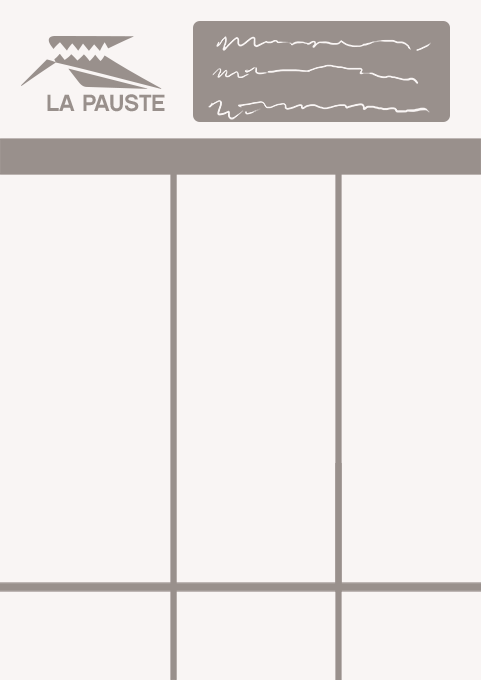
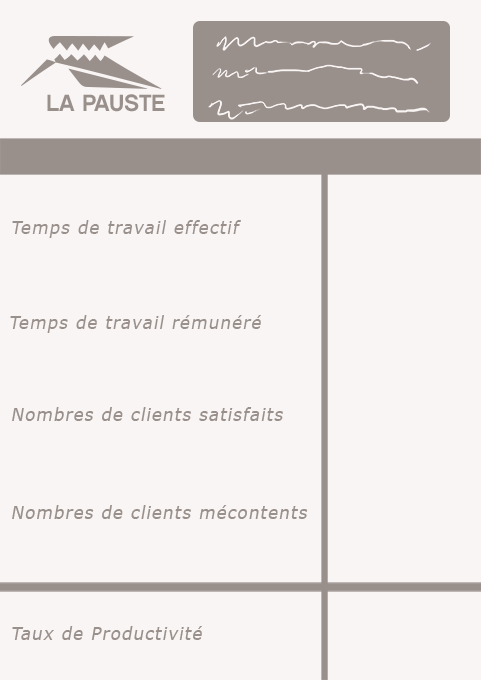
Fiche de paie journée

Changed region(s): [[0.0312, 0.2471, 0.7173, 1.0]]

diff --git a/js/src/entities/Payslip.js b/js/src/entities/Payslip.js
@@ -30,21 +30,21 @@ var Payslip = (function(AssetManager) {
 
     Payslip.prototype.displayInfo = function(info) {
         var ctx = this.context;
-        ctx.font = "28px Courier bold justify";
+        ctx.font = "32px 'Arial' bold";
 
         var gameTimeWorkedForBoss = TimeManager.instance.realTimeToGameTime(info.workedTimeForBoss);
         var gameTimeActuallyWorked = TimeManager.instance.realTimeToGameTime(info.actualWorkedTime);
 
-        ctx.fillText('Temps réellement travaillé : ' + gameTimeActuallyWorked.h + "h" + gameTimeActuallyWorked.m, 50, 50);
-        ctx.fillText('Temps patron : ' + gameTimeWorkedForBoss.h + "h" + gameTimeWorkedForBoss.m, 50, 100);
-        ctx.fillText('Réussi : ' + info.nbSuccess, 50, 150);
-        ctx.fillText('Fail : '+info.nbFailed, 50, 200);
-        ctx.fillText(( (info.productivity * 100) | 0)+"%", 50, 250);
+        ctx.fillText(gameTimeActuallyWorked.h + "h" + gameTimeActuallyWorked.m, 760, 255);
+        ctx.fillText(gameTimeWorkedForBoss.h + "h" + gameTimeWorkedForBoss.m, 760, 350);
+        ctx.fillText(info.nbSuccess, 760, 445);
+        ctx.fillText(info.nbFailed, 760, 540);
+        ctx.fillText( ( (info.productivity * 100) | 0) + "%", 760, 665);
     };
 
     Payslip.prototype.displayInfoWeek = function(info) {
         var ctx = this.context;
-        ctx.font = "28px Courier bold justify";
+        ctx.font = "32px 'Arial' bold";
 
         var gameTimeWorkedForBoss = TimeManager.instance.realTimeToGameTime(info.workedTimeForBoss);
         var gameTimeActuallyWorked = TimeManager.instance.realTimeToGameTime(info.actualWorkedTime);

diff --git a/js/src/TimeManager.js b/js/src/TimeManager.js
@@ -32,14 +32,14 @@ var TimeManager = (function(MakeEventDispatcher) {
     TimeManager.END_OF_DAY             = "TimeManager.END_OF_DAY";
     TimeManager.START_WEEK             = "TimeManager.START_WEEK";
     TimeManager.END_OF_WEEK            = "TimeManager.END_OF_WEEK";
-    TimeManager.MORNING_DURATION       = 120;
-    TimeManager.DAY_DURATION           = 240;
+    TimeManager.MORNING_DURATION       = 5;
+    TimeManager.DAY_DURATION           = 15;
     TimeManager.TIME_BETWEEN_PERIODS   = 3500;
 
     // Private
     var _timeOfDay = 0;
     var _timeSinceAction = 0;
-    var _timeSinceClient = 30
+    var _timeSinceClient = 5
 
     // Call once per frame
     TimeManager.prototype.update = function() {
@@ -84,7 +84,7 @@ var TimeManager = (function(MakeEventDispatcher) {
         if (this.currentPeriod != TimeManager.PERIODS[0]) {
             return;
         }
-        _timeOfDay += 30;   // 30 seconds = 1h in game
+        _timeOfDay += 5;   // 30 seconds = 1h in game
         _timeSinceAction = 0;
         _timeSinceClient = 0;
         this.currentPeriod = TimeManager.PERIODS[1];

diff --git a/js/src/Game.js b/js/src/Game.js
@@ -447,6 +447,7 @@ var Game = (function(onEachFrame, MakeEventDispatcher, StateMachine, Keyboard, A
         this.payslip.render();
         setTimeout(function () {
             Game.instance.payslip.displayInfo(ScoreManager.instance.getLastDayScore());
+            Game.instance.payslip.render();
         }, 100);
         var sheetTimeout = setTimeout(function() {
             Game.instance.dispatch(Game.DAY_SHEET_VALIDATED);
@@ -467,6 +468,7 @@ var Game = (function(onEachFrame, MakeEventDispatcher, StateMachine, Keyboard, A
         this.payslipWeek.render();
         setTimeout(function () {
             Game.instance.payslipWeek.displayInfoWeek(ScoreManager.instance.getLastWeekScore());
+            Game.instance.payslipWeek.render();
         }, 100);
         var sheetTimeout = setTimeout(function() {
             Game.instance.dispatch(Game.WEEK_SHEET_VALIDATED);

diff --git a/js/src/entities/Notif.js b/js/src/entities/Notif.js
@@ -33,9 +33,9 @@ var Notif = (function(Globals, AssetManager, MakeEventDispatcher, Utils) {
         });
         view.draw(ctx);
 
-        ctx.font = "28px 'Courier New' bold justify";
+        ctx.font = "28px 'Courier New' bold";
         Utils.wrapText(ctx, title, 50, 50, this.spriteWidth - 100, 30);
-        ctx.font = "20px 'Courier New' justify";
+        ctx.font = "20px 'Courier New'";
         Utils.wrapText(ctx, content, 50, 80, this.spriteWidth - 100, 25);
     }
 

diff --git a/js/src/ActionManager.js b/js/src/ActionManager.js
@@ -34,7 +34,7 @@ var ActionManager = (function(actions, MakeEventDispatcher, TimeManager) {
                 return;
             }
             if (action == this.currentAction.name) {
-                return thisendAction();
+                return this.endAction();
             }
         }
         this.currentAction = this.actions[action];
